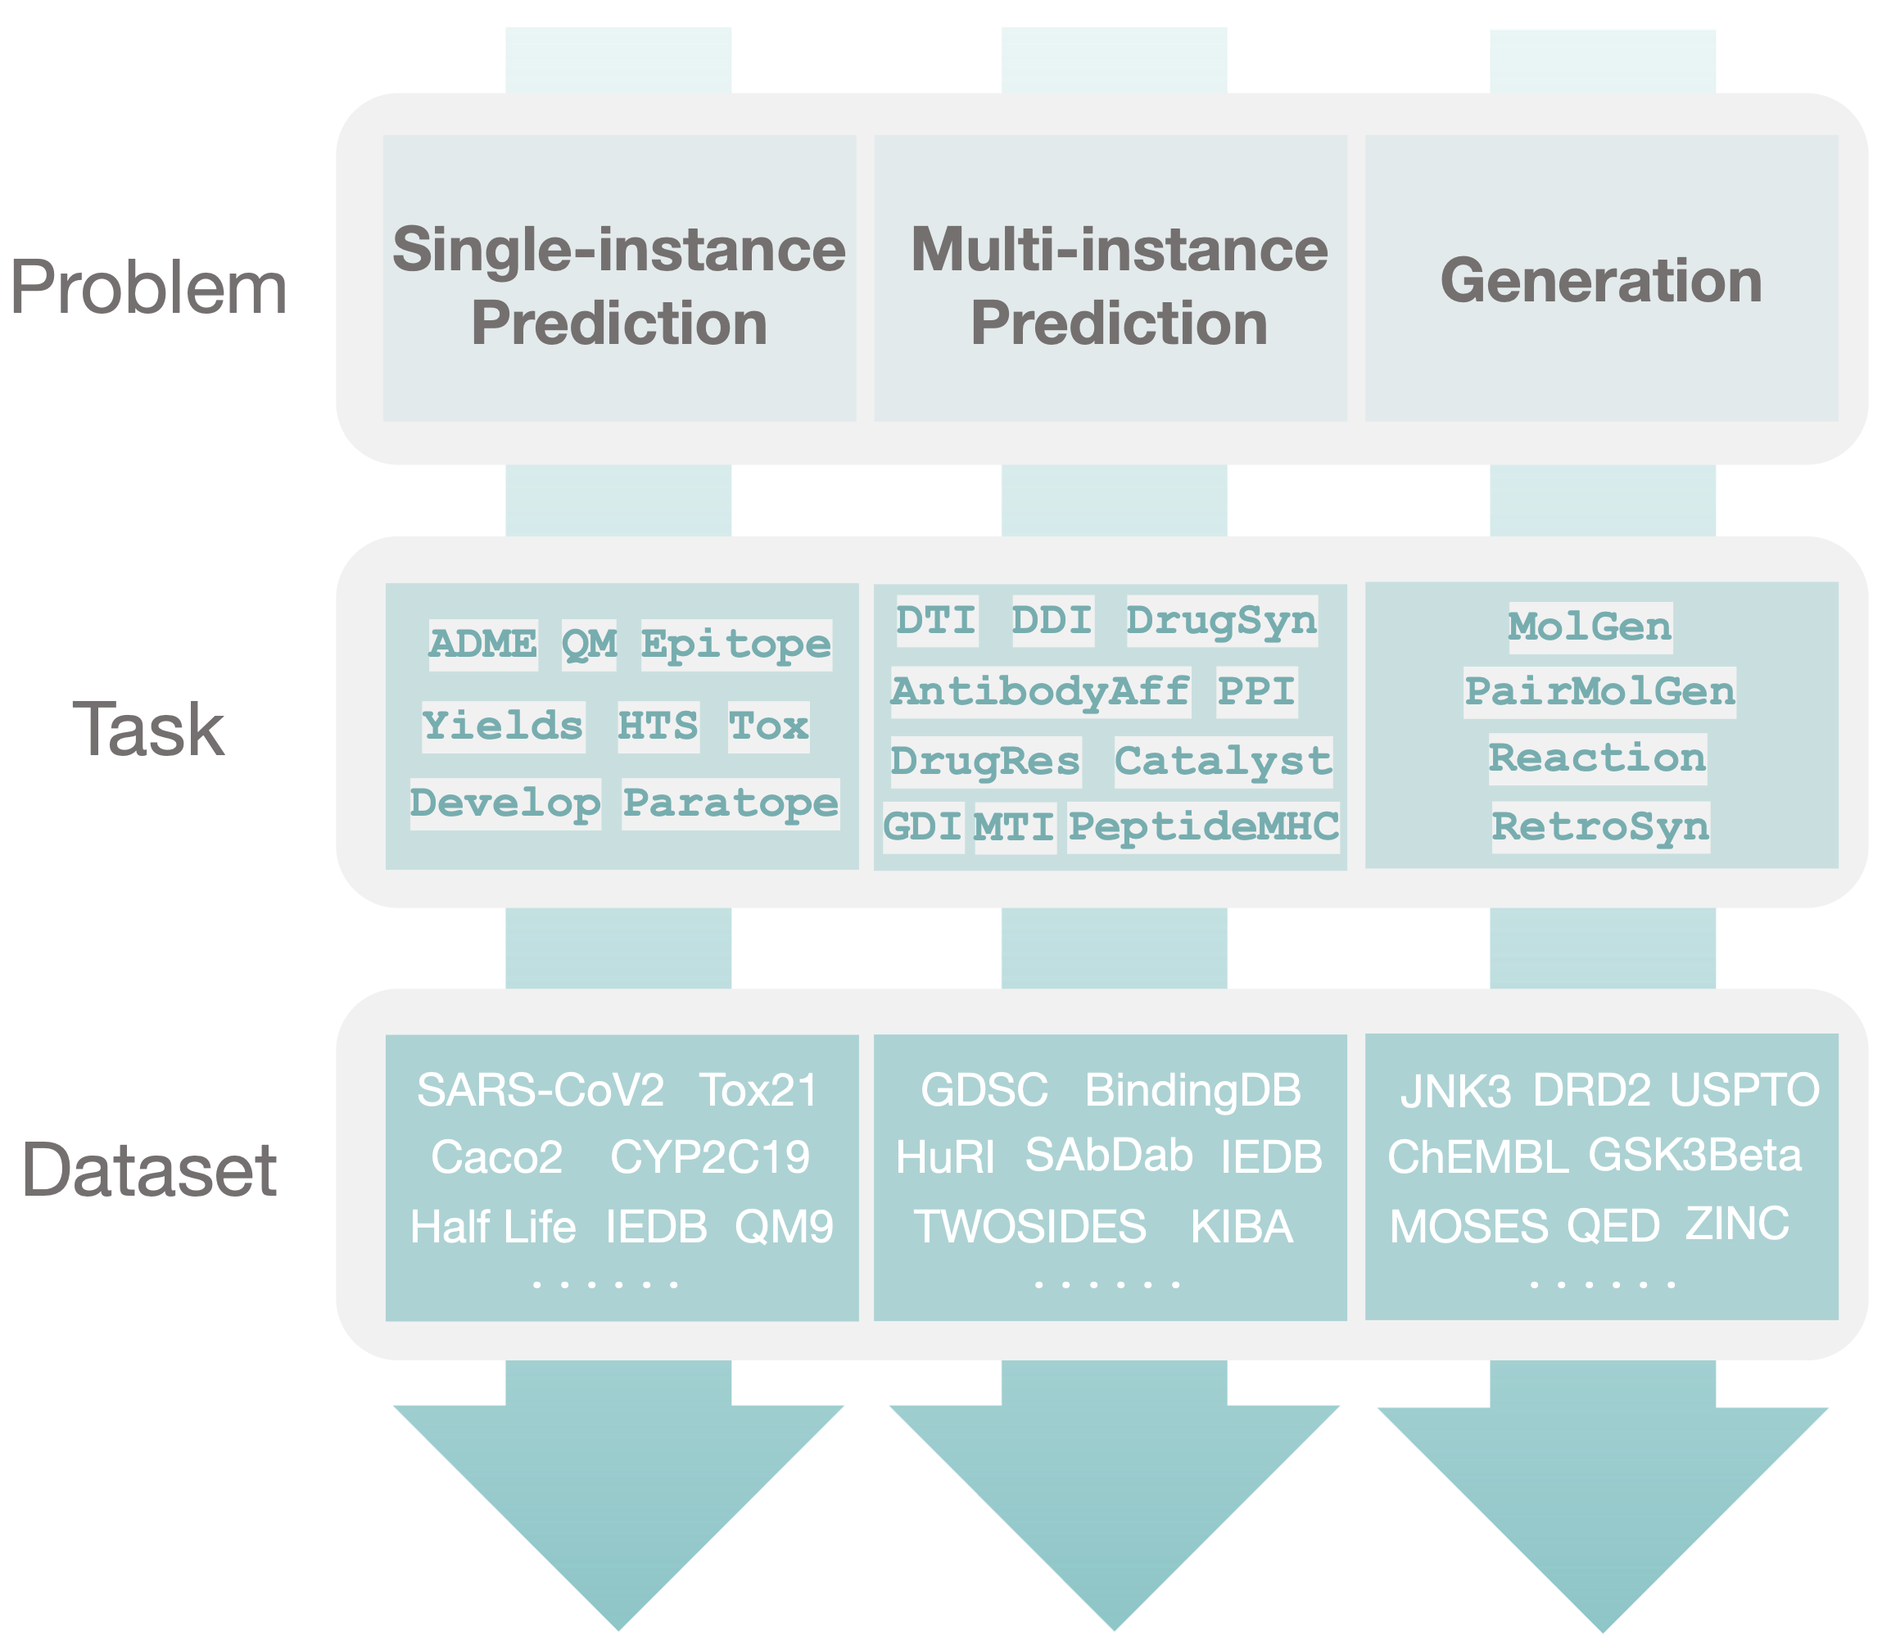
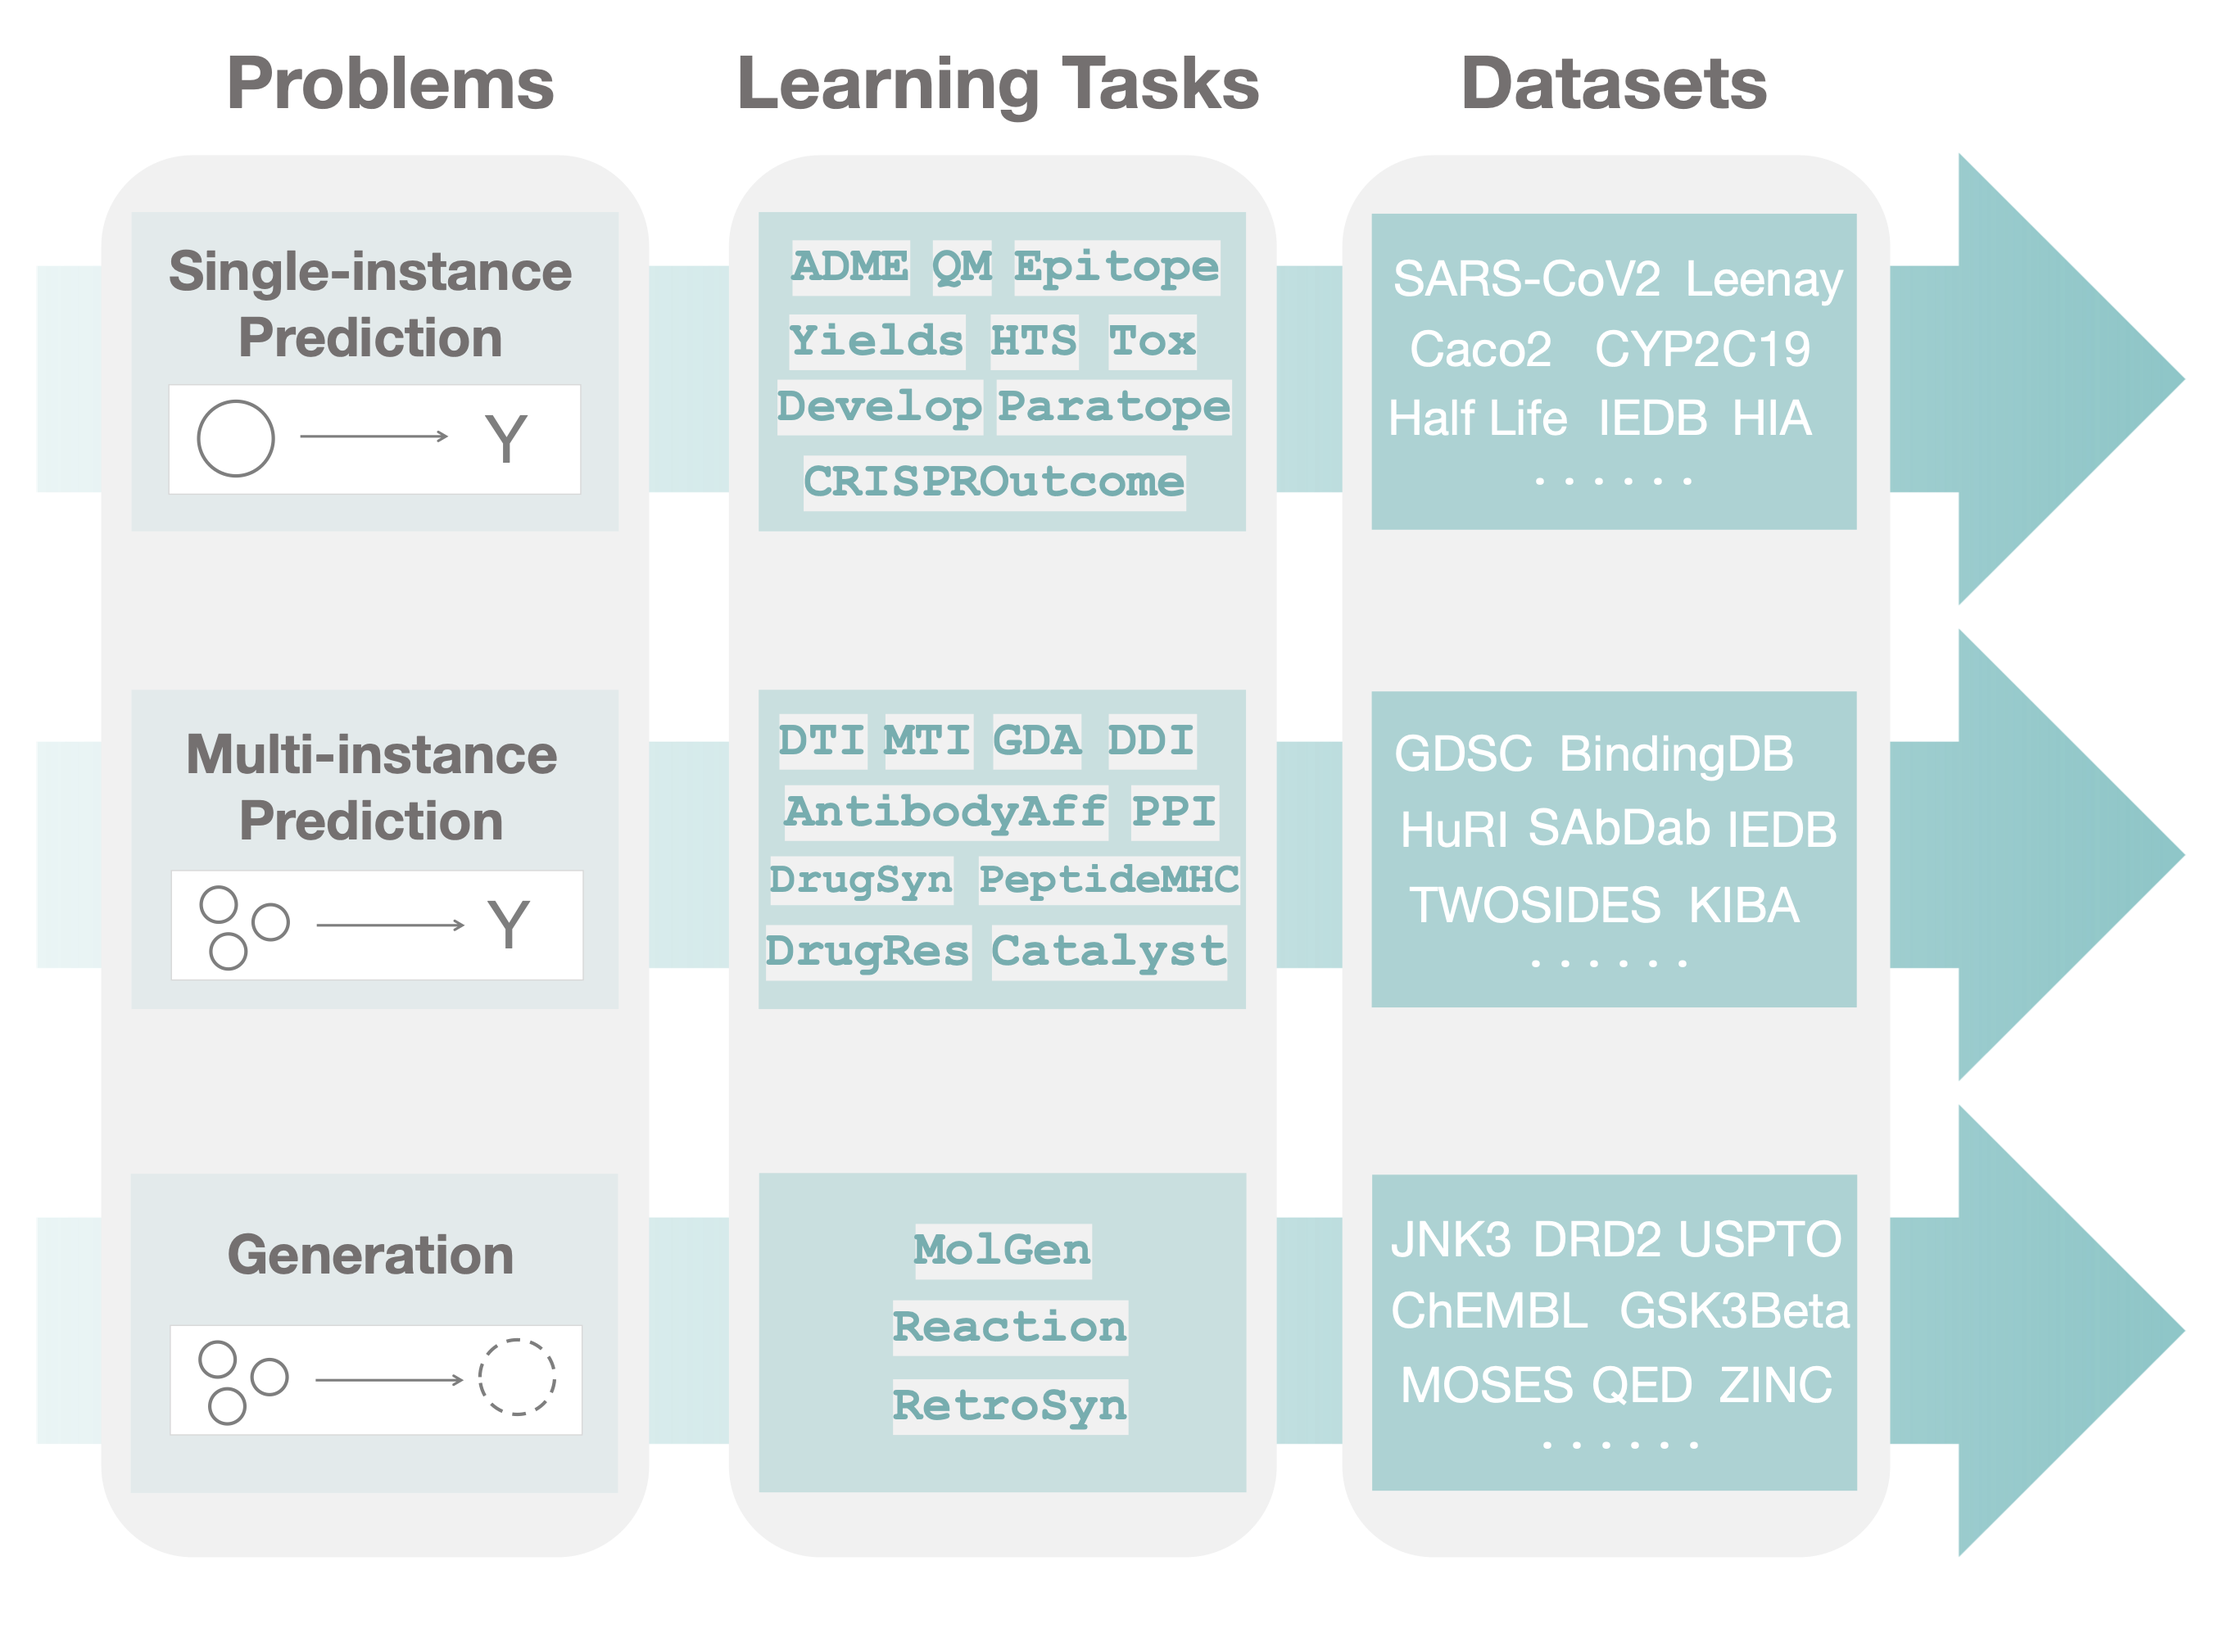
update readme and fig

diff --git a/README.md b/README.md
@@ -92,35 +92,26 @@ If you found our work useful, please cite us:
 
 ## Design of TDC
 
-TDC has a unique three-layer hierarchical structure, which to our knowledge is the first attempt at systematically evaluating machine learning across the field of therapeutics. We organize TDC into three distinct *problems*, each of these problems is instantiated through a variety of *learning tasks*, and each task, in turn, is evaluated on a series of *datasets*.
+TDC has a unique three-tiered hierarchical structure, which to our knowledge, is the first attempt at systematically organizing machine learning for therapeutics. We organize TDC into three distinct *problems*. For each problem, we give a collection *learning tasks*. Finally, for each task, we provide a series of *datasets*.
 
-We choose our datasets to highlight three major areas (*problems*) where machine learning can facilitate scientific advances: single-instance prediction, multi-instance prediction, and generative modeling:
+In the first tier, after observing a large set of therapeutics tasks, we categorize and abstract out three major areas (i.e., problems) where machine learning can facilitate scientific advances, namely, single-instance prediction, multi-instance prediction, and generation:
 
 * Single-instance prediction `single_pred`: Prediction of property given individual biomedical entity.
 * Multi-instance prediction `multi_pred`: Prediction of property given multiple biomedical entities. 
-* Generation `generation`: Generation of a new biomedical entity.
+* Generation `generation`: Generation of new desirable biomedical entities.
 
 <p align="center"><img src="https://raw.githubusercontent.com/mims-harvard/TDC/master/fig/tdc_problems.png" alt="problems" width="500px" /></p>
 
-The second layer in the TDC structure is organized into *learning tasks*. Improvement on these tasks range in applications, including designing new antibodies, identifying personalized combinatorial therapies, improving disease diagnosis, and finding new cures for emerging diseases. 
+The second tier in the TDC structure is organized into learning tasks. Improvement on these tasks can result in numerous applications, including identifying personalized combinatorial therapies, designing novel class of antibodies, improving disease diagnosis, and finding new cures for emerging diseases.
 
-Finally, in the third layer of TDC, each task is instantiated via multiple *datasets*. For each dataset, we construct data splits to simulate biomedically relevant generalizations, such as a model's ability to generalize to entirely unseen compounds, or to granularly resolve patient response to a polytherapy.
+Finally, in the third tier of TDC, each task is instantiated via multiple datasets. For each dataset, we provide several splits of the dataset into training, validation, and test sets to simulate the type of understanding and generalization (e.g., the model's ability to generalize to entirely unseen compounds or to granularly resolve patient response to a polytherapy) needed for transition into production and clinical implementation.
+
 
 ## TDC Data Loaders
 
-Each machine learning problem comprises of multiple learning tasks. TDC provides a data loader class for each *task* inheriting from the base data loader. 
+TDC provides a collection of workflows with intuitive, high-level APIs for both beginners and experts to create machine learning models in Python. Building off the modularized "Problem--Learning Task--Data Set" structure (see above) in TDC, we provide a three-layer API to access any learning task and dataset. This hierarchical API design allows us to easily incorporate new tasks and datasets.
 
-Each learning task is instantiated through many datasets. Most datasets for a given task have the same structure. To get a dataset, use the `dataset_name` as a function input to the task data loader.
-
-Suppose you want to retrieve *dataset* `X` to study therapeutics *task* `Y` which falls under the *problem* `Z`. To obtain the dataset and its associated data split, use the following:
-
-```python
-from tdc.Z import Y
-data = Y(name = 'X')
-splits = data.split()
-```
-
-For example, to obtain the HIA dataset from ADME therapeutic task in the single-instance prediction problem:
+For a concrete example, to obtain the HIA dataset from ADME therapeutic learning task in the single-instance prediction problem:
 
 ```python
 from tdc.single_pred import ADME
@@ -148,7 +139,7 @@ To retrieve the training/validation/test dataset split, you could simply type
 ```python 
 data = X(name = Y)
 data.get_split(seed = 42)
-# {'train': df_train, 'val': df_val, ''test': df_test}
+# {'train': df_train, 'val': df_val, 'test': df_test}
 ```
 You can specify the splitting method, random seed, and split fractions in the function by e.g. `data.get_split(method = 'scaffold', seed = 1, frac = [0.7, 0.1, 0.2])`. Check out the [data split page](https://zitniklab.hms.harvard.edu/TDC/functions/data_split/) on the website for details.
 
@@ -222,7 +213,7 @@ We provide a series of tutorials for you to get started using TDC:
 
 ## Contribute
 
-TDC is designed to be a community-driven effort. Checkout the [contribution guide](CONTRIBUTE.md) to contribute!
+TDC is an open-source community-driven effort. If you want to get involved, join the [Slack Workspace](https://join.slack.com/t/pytdc/shared_invite/zt-mks4lm4z-_N_zI9Z_YFvaGjKiCwCH2Q) and checkout the [contribution guide](CONTRIBUTE.md)!
 
 ## Contact
 
@@ -233,4 +224,4 @@ Send emails to [us](mailto:contact@tdcommons.ai) or open an issue.
 TDC is hosted in [Harvard Dataverse](https://dataverse.harvard.edu/). When dataverse is under maintenance, TDC will not able to retrieve datasets. Although rare, when it happens, please come back in couple of hours or check the status by visiting the [dataverse website](https://dataverse.harvard.edu/).
 
 ## License
-TDC codebase is under MIT license. For individual dataset usage, please refer to the dataset license in the website.
+TDC codebase is under MIT license. For individual dataset usage, please refer to the dataset license found in the website.
